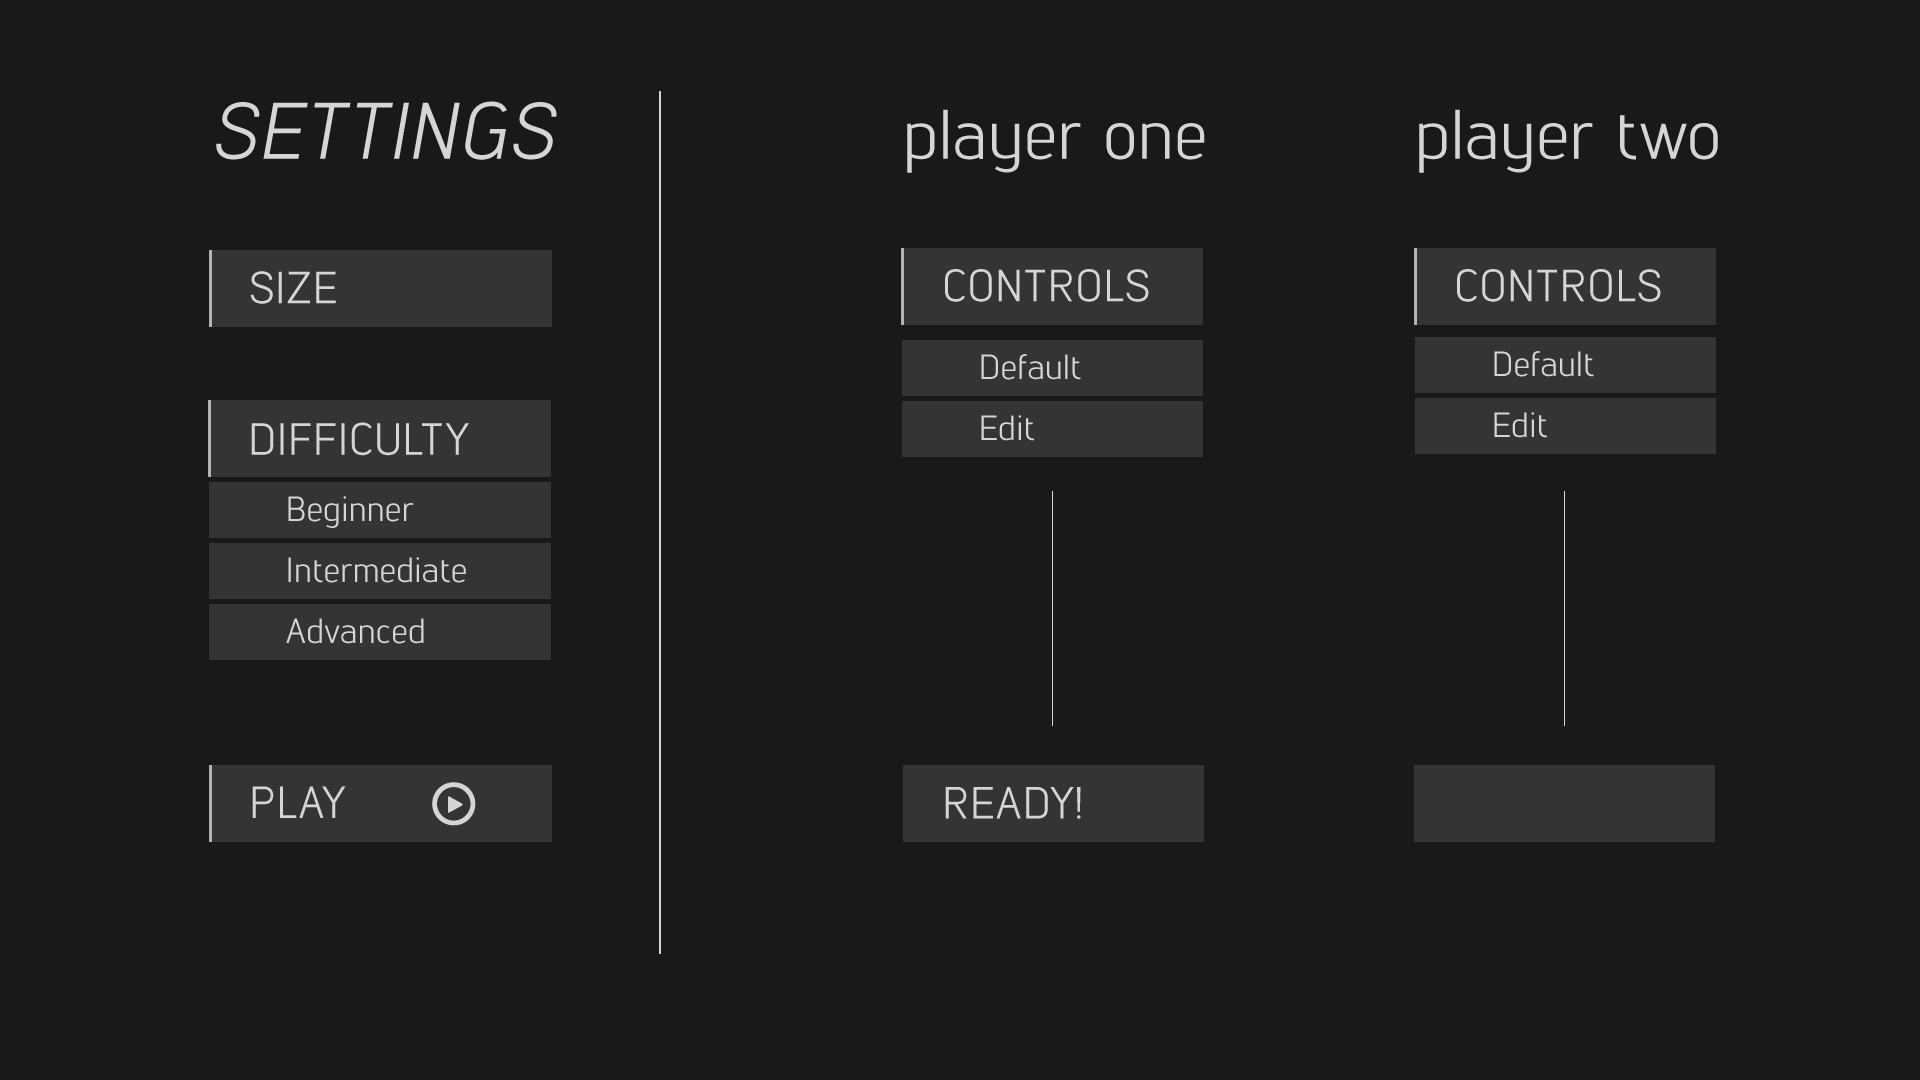
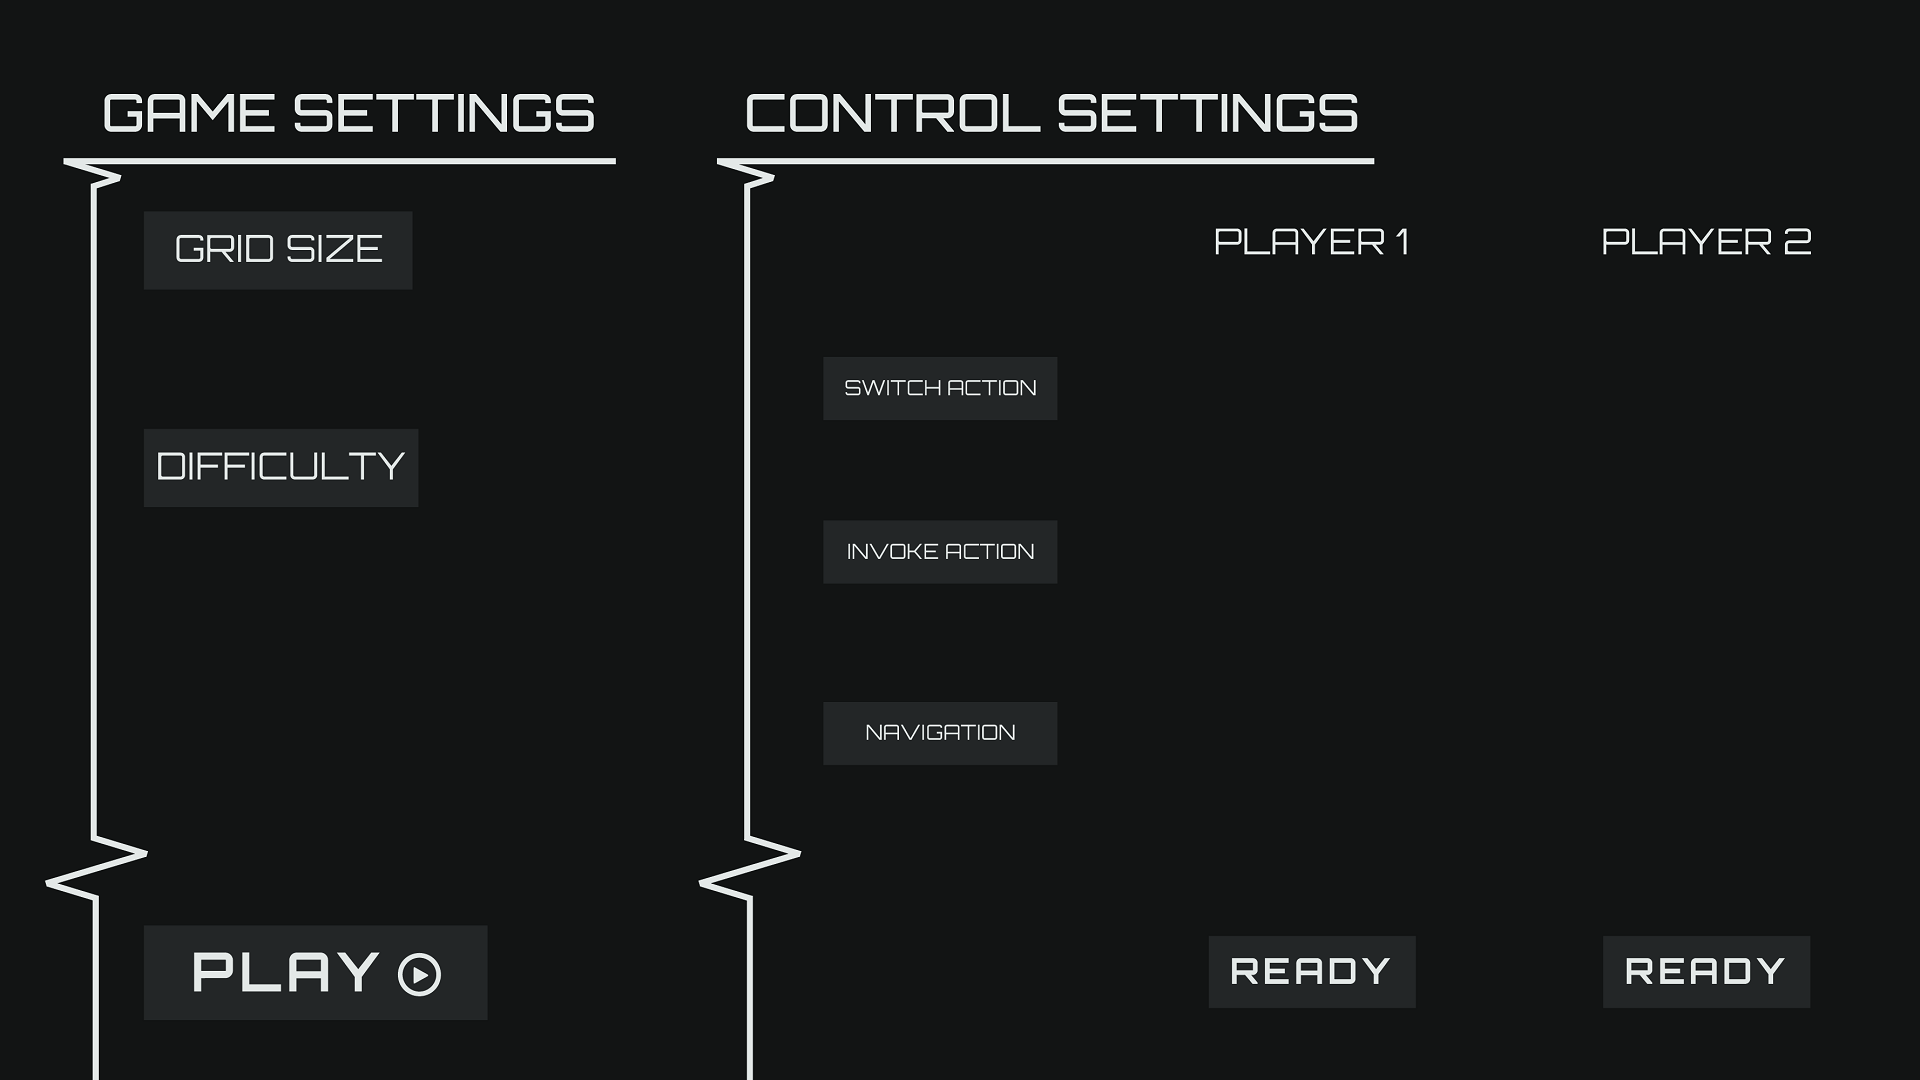
redisned the UI in SettingsScreen.java

diff --git a/deco2800.arcade.mixmaze/src/main/java/deco2800/arcade/mixmaze/SettingsScreen.java b/deco2800.arcade.mixmaze/src/main/java/deco2800/arcade/mixmaze/SettingsScreen.java
@@ -9,6 +9,9 @@ import javax.swing.text.Style;
 
 
 
+
+import sun.rmi.runtime.NewThreadAction;
+
 import com.badlogic.gdx.Gdx;
 import com.badlogic.gdx.Screen;
 import com.badlogic.gdx.graphics.Color;
@@ -41,18 +44,28 @@ public class SettingsScreen implements Screen {
 	private Skin skin;
 	private Stage stage;
 	private TextButton playButton;
-	private List list;
+	private List difficultyList;
 	private Table rootTable = new Table();
 	private Table settingsPanel = new Table();
 	private Table playerOnePanel = new Table();
 	private Table playerTwoPanel = new Table();
-	private Table buttonPanel = new Table();
-	private TextField pOneSwitchActionText;
-	private TextField pOneUseActionText;
-	private TextField pTwoSwitchActionText;
-	private TextField pTwoUseActionText;
-	private SelectBox rows;
+	private Table textPanel = new Table();
+	private TextField p1SwitchActionText;
+	private TextField p1UseActionText;
+	private TextField p2SwitchActionText;
+	private TextField p2UseActionText;
+	private TextField p1ForwardText;
+	private TextField p1SBackwardText;
+	private TextField p1RightText;
+	private TextField p1LeftText;
+	private TextField p2ForwardText;
+	private TextField p2SBackwardText;
+	private TextField p2RightText;
+	private TextField p2LeftText;
+	private SelectBox gridSize;
 	private SelectBox columns;
+	private TextField[] p1Texts = new TextField[10];
+	private TextField[] p2Texts = new TextField[10];
 	
 	SettingsScreen(final MixMaze game) {
 		this.game = game;	
@@ -61,13 +74,10 @@ public class SettingsScreen implements Screen {
 		initialize();		
 		setTableLayout();
 		createSettingsPanel();
-		createPlayerPanel(new Label("PLayer 1", skin),playerOnePanel,
-				pOneSwitchActionText,pOneUseActionText);
-		createPlayerPanel(new Label("PLayer 2", skin),playerTwoPanel,
-				pTwoSwitchActionText,pTwoUseActionText);
+		createPlayerPanel(playerOnePanel,p1Texts);
+		createPlayerPanel(playerTwoPanel,p2Texts);
 		stage.addActor(rootTable);		
-		buttonPanel.add(playButton).colspan(3);
-		
+				
 		playButton.addListener(new ChangeListener() {
 			public void changed (ChangeEvent event, Actor actor) {
 				game.setScreen(game.gameScreen);
@@ -80,70 +90,46 @@ public class SettingsScreen implements Screen {
 		this.skin = game.skin;
 		this.stage = new Stage();
 		playButton = new TextButton("Play", skin);	
-		//playButton.pad(20);
-		skin.add("background", new Texture(Gdx.files.internal("settings.png")));
+		playButton.pad(20);
+		skin.add("background", new Texture(Gdx.files.internal("settings.png")));		
+		difficultyList = new List(new String [] {"Beginner", "Intermediate","Advanced"}, skin);
 		
-		list = new List(new String [] {"Beginner", "Intermediate","Advanced"}, skin);
+		p1Texts[0] = new TextField("G", skin);
+		p1Texts[1] = new TextField("H", skin);
+		p1Texts[2] = new TextField("W", skin);
+		p1Texts[3] = new TextField("A", skin);
+		p1Texts[4] = new TextField("S", skin);
+		p1Texts[5] = new TextField("D", skin);
 		
-		pOneSwitchActionText = new TextField("G", skin);
-		pOneUseActionText = new TextField("H", skin);
-		pTwoSwitchActionText = new TextField("5", skin);
-		pTwoUseActionText = new TextField("6", skin);		
+		p2Texts[0] = new TextField("5", skin);
+		p2Texts[1] = new TextField("6", skin);
+		p2Texts[2] = new TextField("UP", skin);
+		p2Texts[3] = new TextField("LEFT", skin);
+		p2Texts[4] = new TextField("DOWN", skin);
+		p2Texts[5] = new TextField("RIGHT", skin);	
+		
 	}
 
-	private void createPlayerPanel(Label playerLabel, Table panel,TextField swithAction,TextField useAction) {
-		Label switchActionLabel = new Label("Switch Action:       ", skin);
-		Label useActionLabel = new Label("Use Action:         ", skin);
-		Label forwardLabel = new Label("Forward: ",skin);
-		Label backwordLabel = new Label("Backword: ",skin);
-		Label rightLabel = new Label("Right: ",skin);
-		Label leftLabel = new Label("left: ",skin);
-		Label controlLabel = new Label("CONTROLS",skin);		
-		
-		
-		playerLabel.setFontScale(2);		
-		controlLabel.setFontScale(2);
-		panel.add(playerLabel).padTop(70).padBottom(100).colspan(4);
+	private void createPlayerPanel(Table panel,TextField[] playerDetails) {
+		panel.add(playerDetails[0]).padTop(245).padBottom(80).expandX().colspan(3);
 		panel.row();
-		panel.add(controlLabel).expandX().colspan(4);
+		panel.add(playerDetails[1]).padBottom(80).colspan(3);
 		panel.row();
-		panel.add(switchActionLabel).right().expandX();
-		panel.add(swithAction).left().expandX();
+		panel.add(playerDetails[2]).width(40).padBottom(10).colspan(3);
 		panel.row();
-		panel.add(useActionLabel).padRight(20).right().expandX();;
-		panel.add(useAction).left().expandX();	
-		
-		
+		panel.add(playerDetails[3]).width(40).right();
+		panel.add(playerDetails[4]).width(40);
+		panel.add(playerDetails[5]).width(40).left();
 	}
 
 	private void createSettingsPanel() {
-		Label difficultyLabel = new Label("DIFFICULTY", skin);
-		Label settingsLabel = new Label("SETTINGS", skin);
-		Label sizeLabel = new Label("SIZE", skin);
-		rows= new SelectBox(new String []{"5","6","7","8","9","10"}, skin);
-		columns= new SelectBox(new String []{"5","6","7","8","9","10"}, skin);
+		gridSize= new SelectBox(new String []{"5","6","7","8","9","10"}, skin);
 		
-		difficultyLabel.setFontScale(2);
-		settingsLabel.setFontScale(2);
-		sizeLabel.setFontScale(2);		
-		settingsPanel.add(settingsLabel).padTop(70).padBottom(100).colspan(4);
+		settingsPanel.add(gridSize).expandX().padTop(220).padBottom(110);	
+		settingsPanel.row();		
+		settingsPanel.add(difficultyList).padBottom(170);
 		settingsPanel.row();
-		
-		settingsPanel.add(sizeLabel).padTop(30).colspan(4);
-		settingsPanel.row();
-		settingsPanel.add(new Label("#of rows: ", skin)).right().expandX();
-		settingsPanel.add(rows).left().expandX();	
-		settingsPanel.row();
-		settingsPanel.add(difficultyLabel).colspan(4);
-		settingsPanel.row();
-		settingsPanel.add(list).colspan(4);
-		settingsPanel.row();
-		settingsPanel.add(playButton).colspan(3);
-		
-		
-		
-		
-		
+		settingsPanel.add(playButton);
 	}
 
 	private void startDebug() {
@@ -155,26 +141,22 @@ public class SettingsScreen implements Screen {
 
 	private void setTableLayout() {
 		float celHeight = Gdx.graphics.getHeight();
-		float cellWidth = Gdx.graphics.getWidth()/3;
+		float settingsWidth = (float) (Gdx.graphics.getWidth()/2.56);
+		float textWidth = (float) (Gdx.graphics.getWidth()/5.12);
+		float playerWidth = (float) (Gdx.graphics.getWidth()/4.8301);	//256	
 		Drawable background = skin.getDrawable("background");
+		
 		rootTable.setFillParent(true);
-		//rootTable.setBackground(background);
-		rootTable.row().padBottom(10);
-		rootTable.top(); // so that cells are added from the top instead of center
-		rootTable.add(settingsPanel).width(cellWidth).height(celHeight);
-		rootTable.add(playerOnePanel).width(cellWidth).height(celHeight);	
-		rootTable.add(playerTwoPanel).width(cellWidth).height(celHeight);
-		
-				
+		rootTable.setBackground(background);
+		rootTable.top().left(); // so that cells are added from the top instead of center
+		rootTable.add(settingsPanel).width(settingsWidth).height(celHeight).expandX();
+		rootTable.add(textPanel).width(textWidth).height(celHeight).expandX();
+		rootTable.add(playerOnePanel).width(playerWidth).height(celHeight).expandX();	
+		rootTable.add(playerTwoPanel).width(playerWidth).height(celHeight).expandX();
+						
 		settingsPanel.top().columnDefaults(4);
-		playerOnePanel.top().columnDefaults(4);
-		playerTwoPanel.top().columnDefaults(4);
-		
-		settingsPanel.defaults().padBottom(10);
-		playerOnePanel.defaults().padBottom(10);
-		playerTwoPanel.defaults().padBottom(10);
-
-		
+		playerOnePanel.top().columnDefaults(3);
+		playerTwoPanel.top().columnDefaults(3);
 	}
 
 	@Override
@@ -202,12 +184,13 @@ public class SettingsScreen implements Screen {
 		Gdx.gl.glClear(GL_COLOR_BUFFER_BIT);
 		stage.act(delta);
 		stage.draw();		
-		Table.drawDebug(stage);
+		//Table.drawDebug(stage);
 	}
 
 	@Override
 	public void resize(int arg0, int arg1) {
 		stage.setViewport(1280, 720, true);
+		
 		
 	}
 
